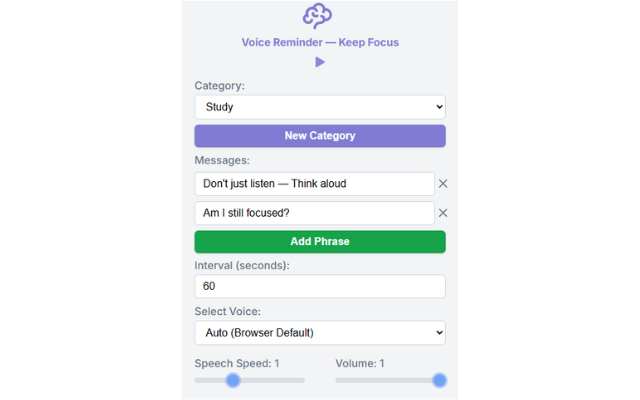
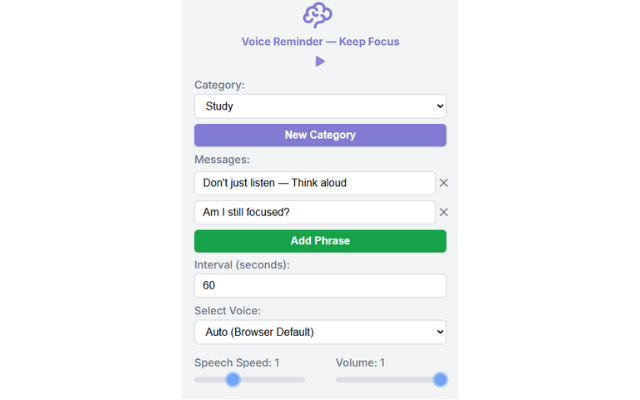
readme

diff --git a/README.md b/README.md
@@ -62,3 +62,7 @@ Contributions are welcome! Please:
 
 ### [1.0.0] - 2025-06-17
 - Initial release with custom messages, interval settings, voice selection, and speech speed/volume controls.
+### [1.1.0] - 2025-08-16
+- Categories
+### [1.1.1] - 2025-08-17
+- Categories Fix
